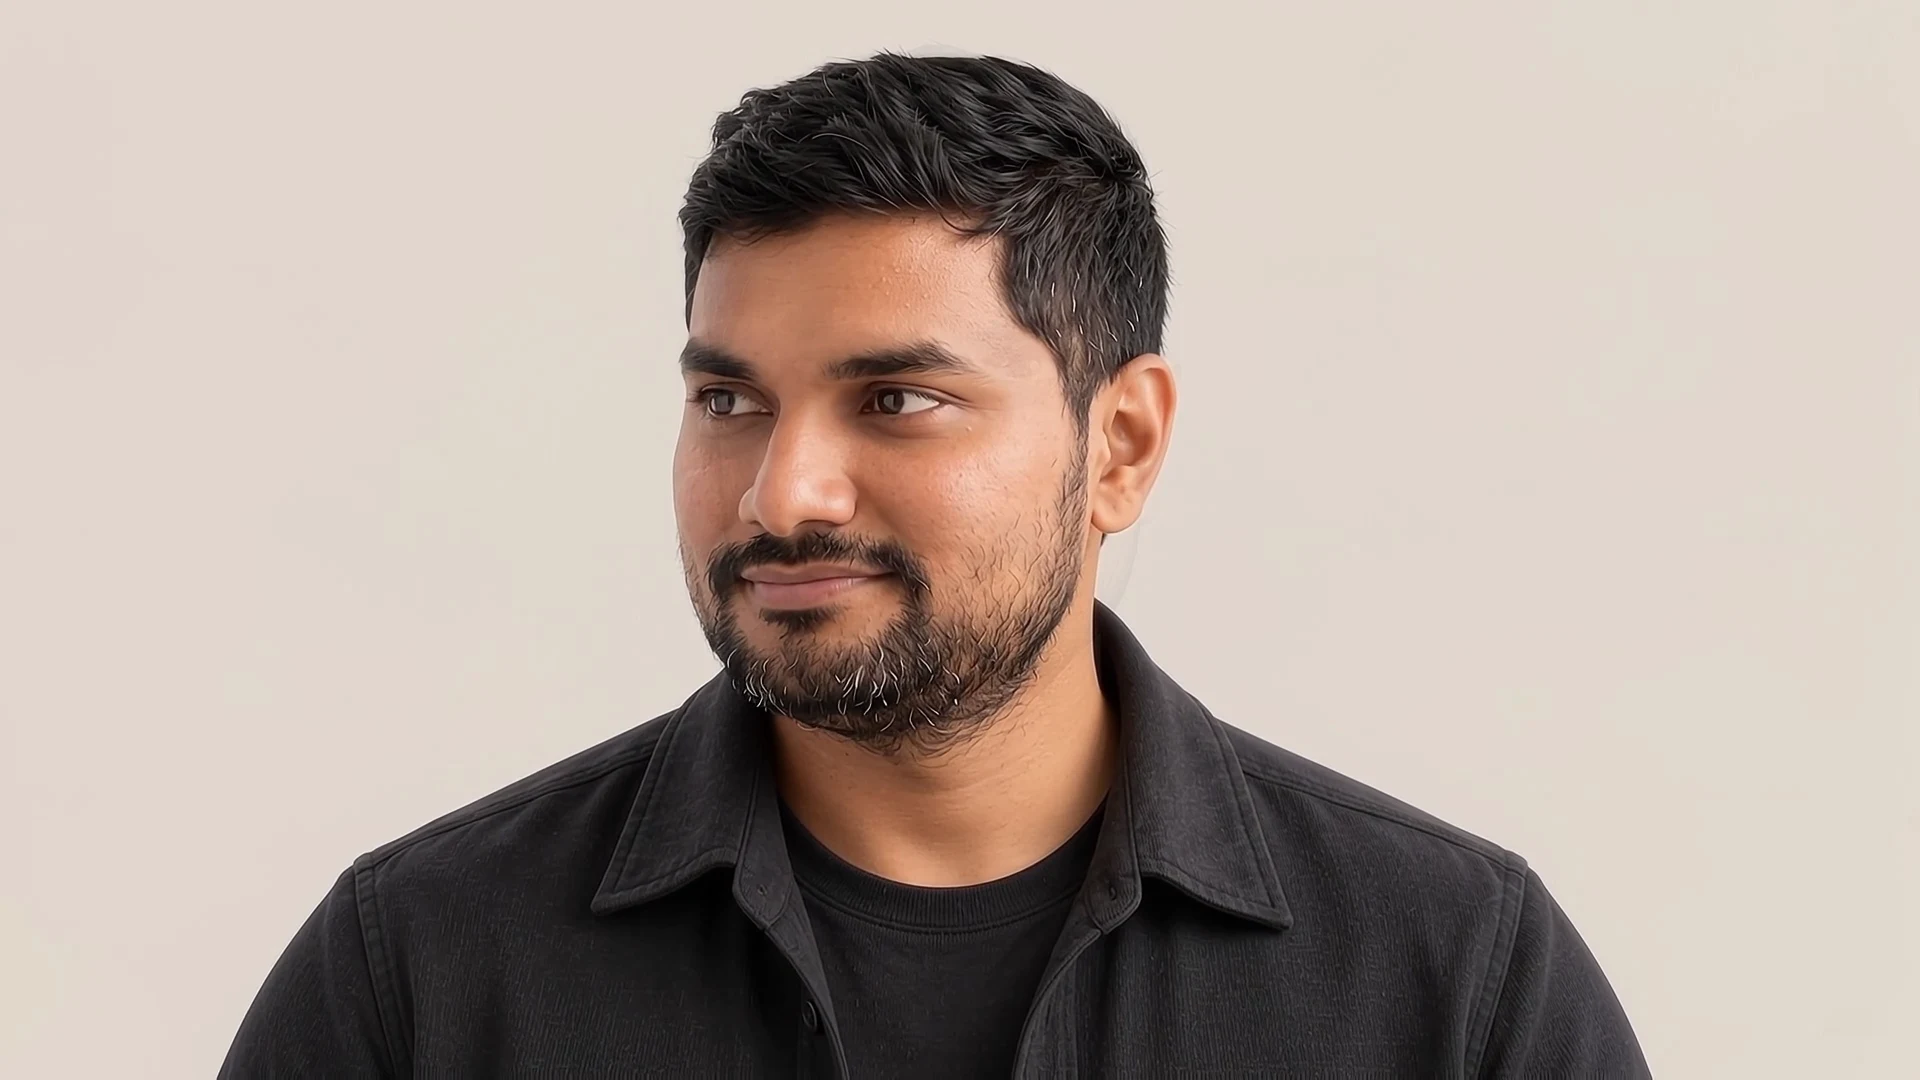
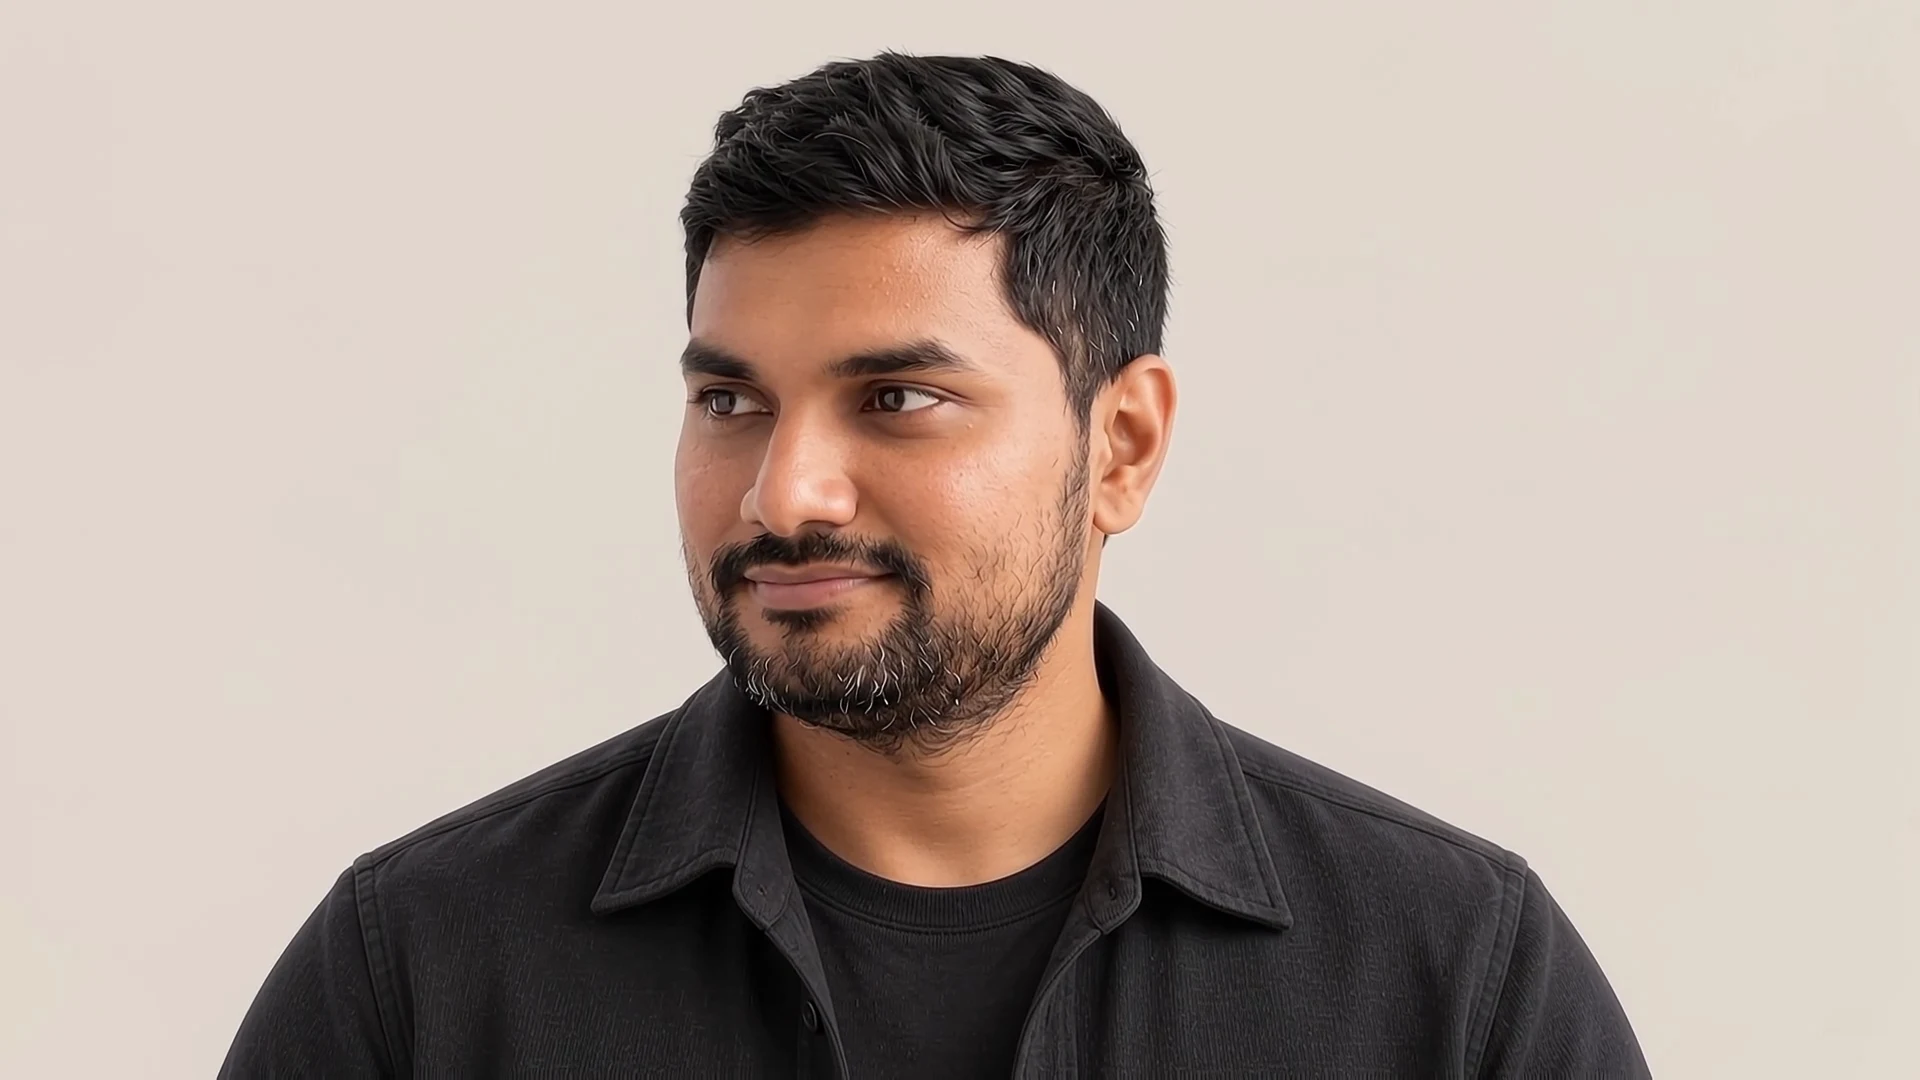
fix: morph upper-left tracking frames

diff --git a/scripts/extract_character_frames.py b/scripts/extract_character_frames.py
@@ -2,6 +2,7 @@ from pathlib import Path
 import argparse
 
 import cv2
+import numpy as np
 
 
 def evenly_spaced_indices(
@@ -41,6 +42,30 @@ def directional_motion_indices(
     )
 
 
+def morph_frame(start, end, forward_flow, backward_flow, alpha: float):
+    height, width = start.shape[:2]
+    grid_x, grid_y = np.meshgrid(
+        np.arange(width, dtype=np.float32), np.arange(height, dtype=np.float32)
+    )
+    start_warp = cv2.remap(
+        start,
+        grid_x - forward_flow[..., 0] * alpha,
+        grid_y - forward_flow[..., 1] * alpha,
+        cv2.INTER_LINEAR,
+        borderMode=cv2.BORDER_REFLECT,
+    )
+    end_warp = cv2.remap(
+        end,
+        grid_x - backward_flow[..., 0] * (1 - alpha),
+        grid_y - backward_flow[..., 1] * (1 - alpha),
+        cv2.INTER_LINEAR,
+        borderMode=cv2.BORDER_REFLECT,
+    )
+    # Keep one opaque source face per frame; switching between aligned warps at
+    # the midpoint avoids the doubled facial features of a dissolve.
+    return start_warp if alpha < 0.5 else end_warp
+
+
 def extract(
     source: Path,
     destination: Path,
@@ -74,14 +99,28 @@ def extract(
             raise RuntimeError(f"unable to write {output}")
         directional_frames.append(frame)
 
-    # Flow returns to a centered pose after looking left. Blend left directly
-    # back to up so the upper-left cursor quadrant stays directional and loops.
+    # Flow returns to center after looking left. Motion-warp left directly back
+    # to up so the upper-left quadrant stays directional without double exposure.
     closing_count = output_count - len(directional_frames)
     left_frame = directional_frames[-1]
     up_frame = directional_frames[0]
+    left_gray = cv2.cvtColor(left_frame, cv2.COLOR_BGR2GRAY)
+    up_gray = cv2.cvtColor(up_frame, cv2.COLOR_BGR2GRAY)
+    flow_options = dict(
+        pyr_scale=0.5, levels=5, winsize=41, iterations=5,
+        poly_n=7, poly_sigma=1.5, flags=cv2.OPTFLOW_FARNEBACK_GAUSSIAN,
+    )
+    forward_flow = cv2.calcOpticalFlowFarneback(
+        left_gray, up_gray, None, **flow_options
+    )
+    backward_flow = cv2.calcOpticalFlowFarneback(
+        up_gray, left_gray, None, **flow_options
+    )
     for closing_index in range(1, closing_count + 1):
         alpha = closing_index / closing_count
-        frame = cv2.addWeighted(left_frame, 1 - alpha, up_frame, alpha, 0)
+        frame = morph_frame(
+            left_frame, up_frame, forward_flow, backward_flow, alpha
+        )
         output_index = len(directional_frames) + closing_index - 1
         output = destination / f"frame-{output_index:02d}.webp"
         if not cv2.imwrite(str(output), frame, [cv2.IMWRITE_WEBP_QUALITY, 88]):
